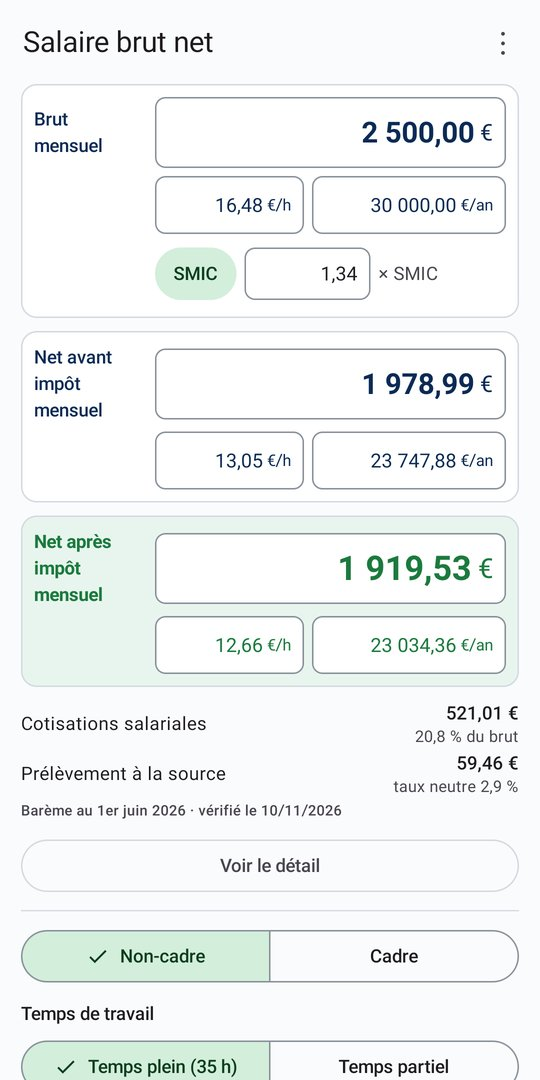
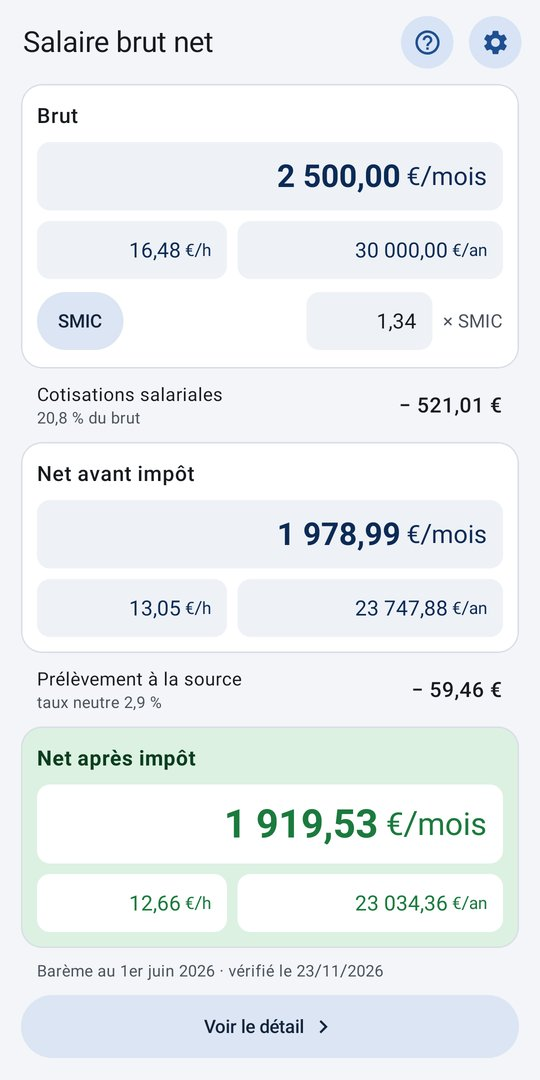
Site public : captures de la nouvelle interface
Huit captures (dont la vue « Fiche de paie »), image de partage
régénérée, galerie et textes alternatifs mis à jour, mention de la vue
fiche de paie dans « Détail ligne par ligne ».

diff --git a/index.html b/index.html
@@ -214,11 +214,13 @@
 
   <div class="galerie">
     <img src="images/01-non-cadre.jpg" alt="Calculateur&nbsp;: 2 500 € brut mensuel, net avant et après impôt, à l'heure, au mois et à l'année" loading="lazy" width="540" height="1080">
-    <img src="images/02-cadre.jpg" alt="Situation d'un cadre avec mutuelle, prévoyance et titres-restaurant" loading="lazy" width="540" height="1080">
-    <img src="images/03-net-vers-brut.jpg" alt="Du net vers le brut&nbsp;: 2 000 € net après impôt donnent 2 621,61 € brut" loading="lazy" width="540" height="1080">
-    <img src="images/04-smic.jpg" alt="Bouton SMIC&nbsp;: le brut devient le SMIC à temps plein" loading="lazy" width="540" height="1080">
-    <img src="images/05-detail.jpg" alt="Détail ligne par ligne des cotisations salariales" loading="lazy" width="540" height="1080">
-    <img src="images/06-bareme.jpg" alt="Le barème en service&nbsp;: plafond, SMIC, taux et grille du taux neutre" loading="lazy" width="540" height="1080">
+    <img src="images/02-net-vers-brut.jpg" alt="Du net vers le brut&nbsp;: 2 000 € net après impôt donnent 2 621,61 € brut" loading="lazy" width="540" height="1080">
+    <img src="images/03-fiche-de-paie.jpg" alt="Vue fiche de paie&nbsp;: base, taux et retenue de chaque cotisation, jusqu'au net payé" loading="lazy" width="540" height="1080">
+    <img src="images/04-cadre.jpg" alt="Cadre à 3 800 € brut avec mutuelle, prévoyance et titres-restaurant" loading="lazy" width="540" height="1080">
+    <img src="images/05-situation.jpg" alt="Votre situation&nbsp;: statut, temps de travail, impôt, mutuelle, prévoyance, titres-restaurant" loading="lazy" width="540" height="1080">
+    <img src="images/06-detail.jpg" alt="Détail ligne par ligne des cotisations, avec une explication au toucher" loading="lazy" width="540" height="1080">
+    <img src="images/07-smic.jpg" alt="Bouton SMIC&nbsp;: le brut devient le SMIC à temps plein" loading="lazy" width="540" height="1080">
+    <img src="images/08-bareme.jpg" alt="Le barème en service&nbsp;: plafond, SMIC, taux et grille du taux neutre" loading="lazy" width="540" height="1080">
   </div>
 
   <h2>Brut, net&nbsp;: de quoi parle-t-on&nbsp;?</h2>
@@ -248,7 +250,7 @@
     </div>
     <div class="fonctionnalite">
       <div class="titre">Détail ligne par ligne</div>
-      <p>Chaque cotisation avec sa base et son taux, expliquée d'un simple appui. Le résumé se partage en texte.</p>
+      <p>Chaque cotisation avec sa base et son taux, expliquée d'un simple appui, ou présentée en colonnes comme sur une fiche de paie. Le résumé se partage en texte.</p>
     </div>
     <div class="fonctionnalite">
       <div class="titre">Toujours à jour</div>
